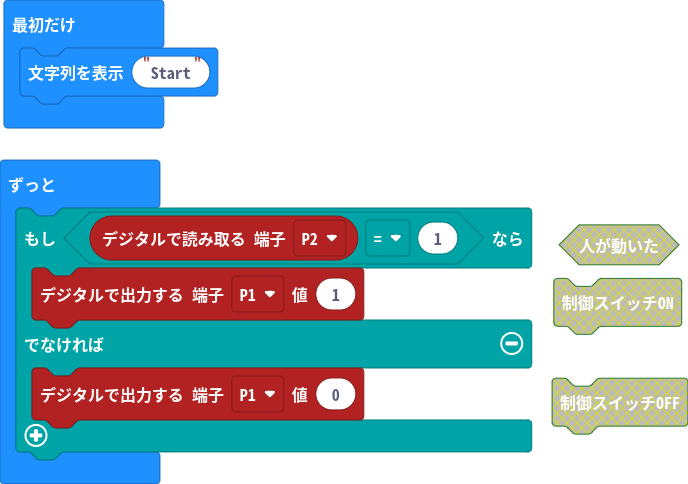
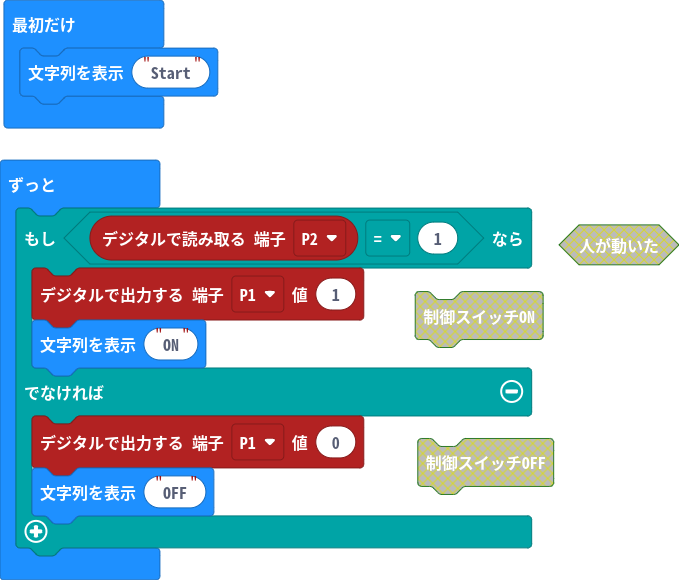
更新 main.blocks, main.ts

diff --git a/main.ts b/main.ts
@@ -2,7 +2,9 @@ basic.showString("Start")
 basic.forever(function () {
     if (pins.digitalReadPin(DigitalPin.P2) == 1) {
         pins.digitalWritePin(DigitalPin.P1, 1)
+        basic.showString("ON")
     } else {
         pins.digitalWritePin(DigitalPin.P1, 0)
+        basic.showString("OFF")
     }
 })
